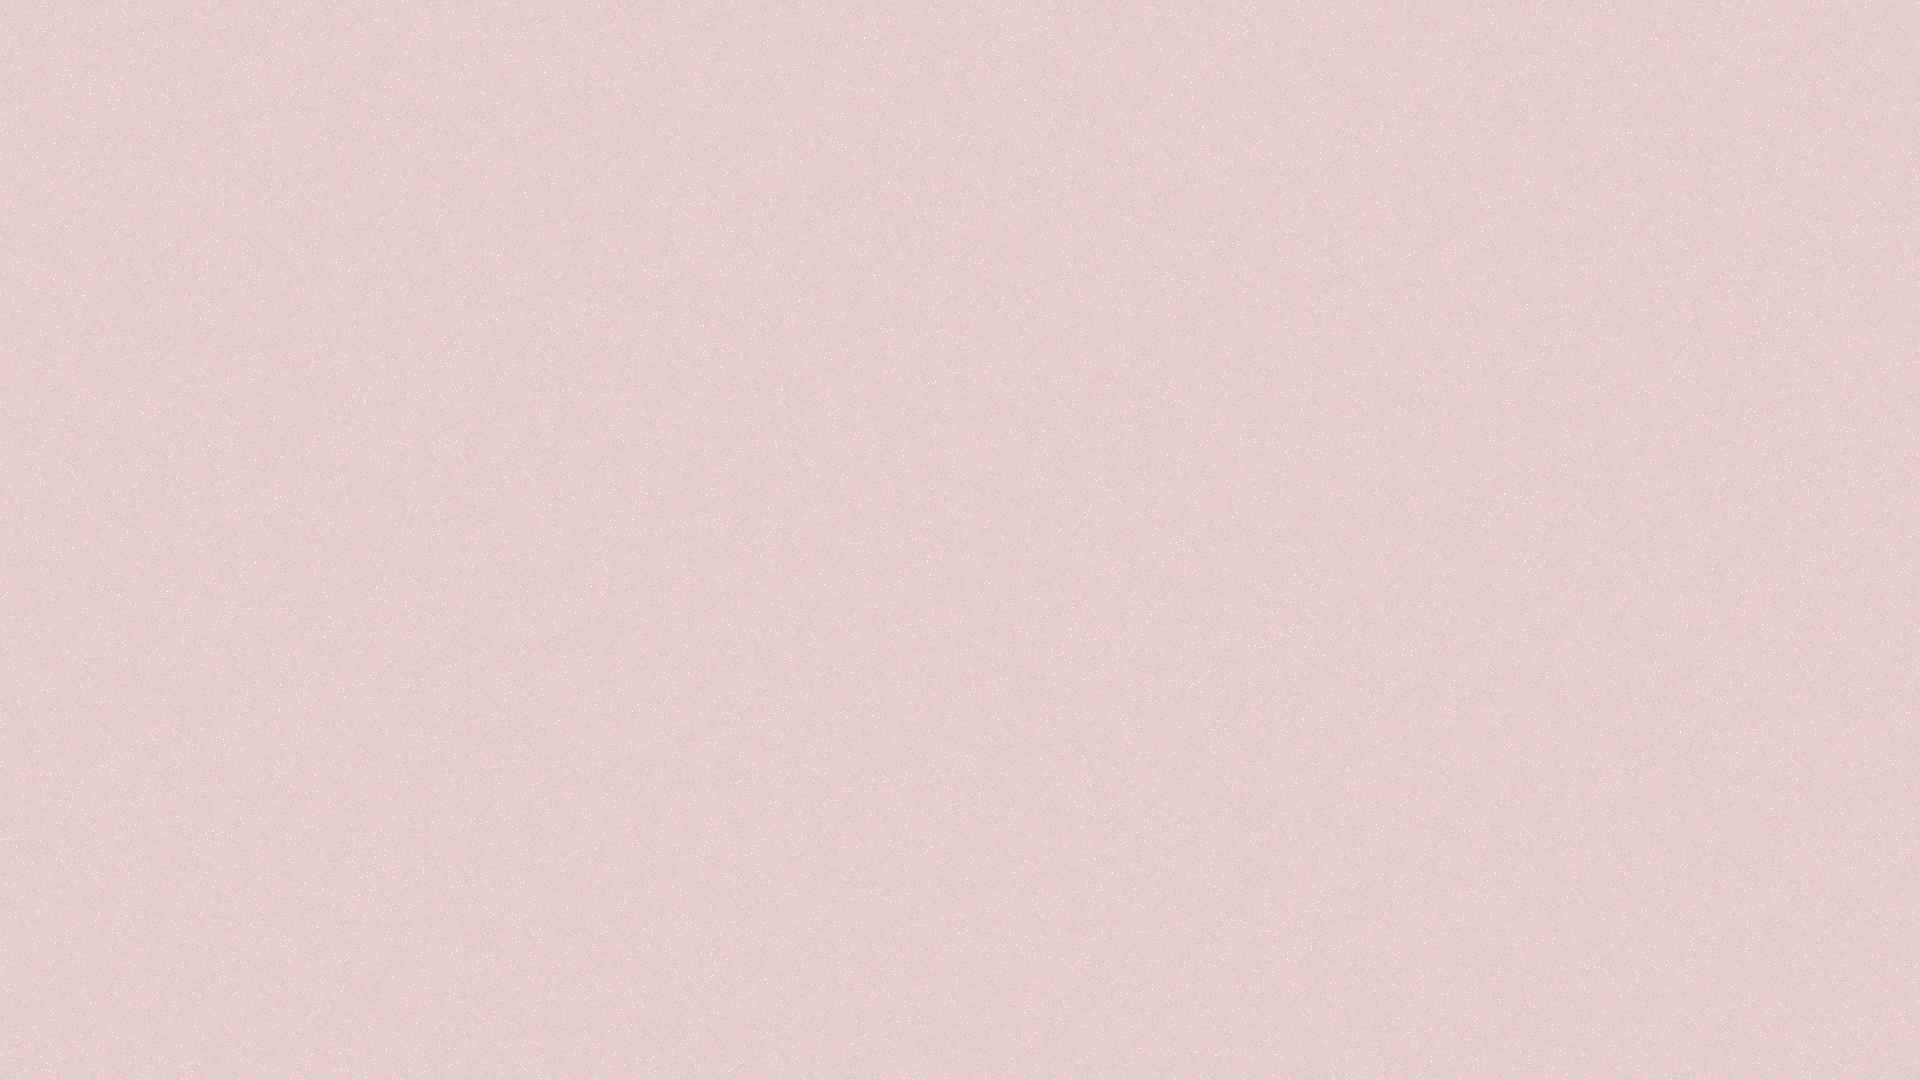
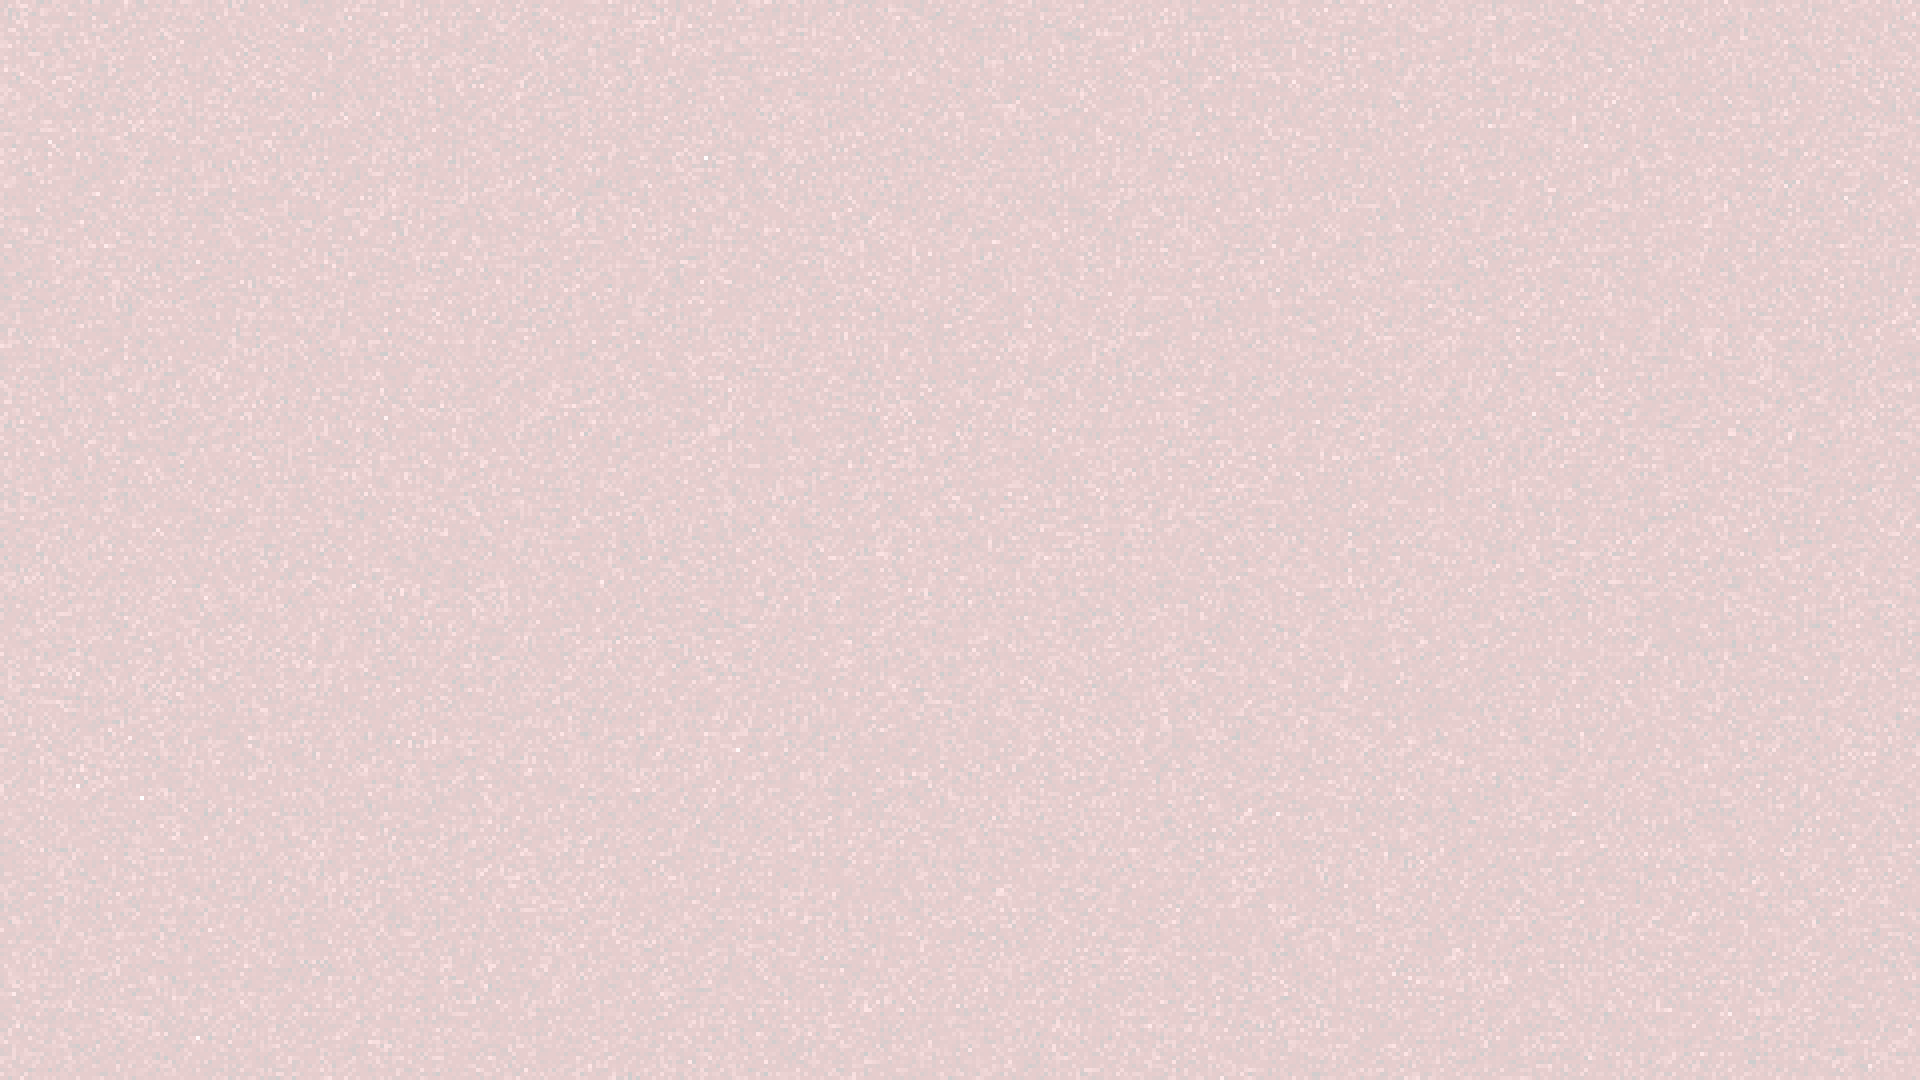
Implemented noise filter

diff --git a/The Mines of Mukduk/src/world_gen/Map.java b/The Mines of Mukduk/src/world_gen/Map.java
@@ -132,16 +132,16 @@ public class Map {
 		for (int r = 0; r < gridSize; r++) {
 			for (int c = 0; c < gridSize; c++) {
 				grid[r][c] = new Tile();
-				grid[r][c].setFloor(true);
+				grid[r][c].setWall(true);
 			}
 		}
 
-		// genInteriorRooms();
+		//genInteriorRooms();
 		readMap();
 		// placeSpawnPoint();
 
 		boundGen();
-		placeLadder();
+		//placeLadder();
 		placePlayer();
 		placeMonsters();
 
@@ -198,6 +198,13 @@ public class Map {
 				if (height == '@') {
 					parcel = Utils.loadFileAsString("res/Parcels/Special/SpawnRoom.txt");
 					parcelReader(5, 5, r, c, parcel);
+				}
+				else if (height == '+') {
+					numFiles = new File("res/Parcels/+").list().length;
+					parcelRoll = rand.nextInt(numFiles) + 1;
+					
+					parcel = Utils.loadFileAsString("res/Parcels/+/Parcel" + parcelRoll + ".txt");
+					parcelReader(5, 10, r, c, parcel);
 				} 
 				// two doors
 				else if (Character.isDigit(height) && Character.isDigit(width) && Character.isLetter(doorFirstPosition) && Character.isLetter(doorSecondPosition)) {

diff --git a/The Mines of Mukduk/src/gfx/Assets.java b/The Mines of Mukduk/src/gfx/Assets.java
@@ -21,7 +21,7 @@ public class Assets {
 	public static BufferedImage alert;
 	public static BufferedImage combatHUD, combatButtons, pointer;
 	public static BufferedImage seamlessRock;
-	public static BufferedImage[] noise = new BufferedImage[5];
+	public static BufferedImage[] noise = new BufferedImage[3];
 
 	public static void init() {
 		dirt = ImageLoader.loadImage("res/Dirt.png");
@@ -47,7 +47,5 @@ public class Assets {
 		noise[0] = ImageLoader.loadImage("res/Noise/Noise1.png");
 		noise[1] = ImageLoader.loadImage("res/Noise/Noise2.png");
 		noise[2] = ImageLoader.loadImage("res/Noise/Noise3.png");
-		noise[3] = ImageLoader.loadImage("res/Noise/Noise4.png");
-		noise[4] = ImageLoader.loadImage("res/Noise/Noise5.png");
 	}
 }

diff --git a/The Mines of Mukduk/src/world_gen/World.java b/The Mines of Mukduk/src/world_gen/World.java
@@ -45,14 +45,14 @@ public class World {
 		entityHandler.tick();
 		inventory.tick();
 		handler.getGuiMain().getWindow().setTitle("The Mines of Mukduk - Level " + map.getLevelNum() + " - Steps: " + entityHandler.getPlayer().getSteps());
-		//noise.tick();
+		noise.tick();
 	}
 
 	public void render(Graphics g) {
 		renderMap(g);
 		entityHandler.render(g);
 		inventory.render(g);
-		//noise.render(g);
+		noise.render(g);
 	}
 
 	// Creates a player entity and places it on the map

diff --git a/The Mines of Mukduk/src/display/Noise.java b/The Mines of Mukduk/src/display/Noise.java
@@ -13,12 +13,16 @@ public class Noise {
 
 	public Noise() {
 		rand = new Random();
-		counter = 0;
+		counter = 10;
 	}
 
 	public void tick() {
-		int randRoll = rand.nextInt(5);
-		noise = Assets.noise[randRoll];
+		if (counter == 10) {
+			int randRoll = rand.nextInt(3);
+			noise = Assets.noise[randRoll];
+			counter = 0;
+		}
+		counter++;
 	}
 
 	public void render(Graphics g) {
